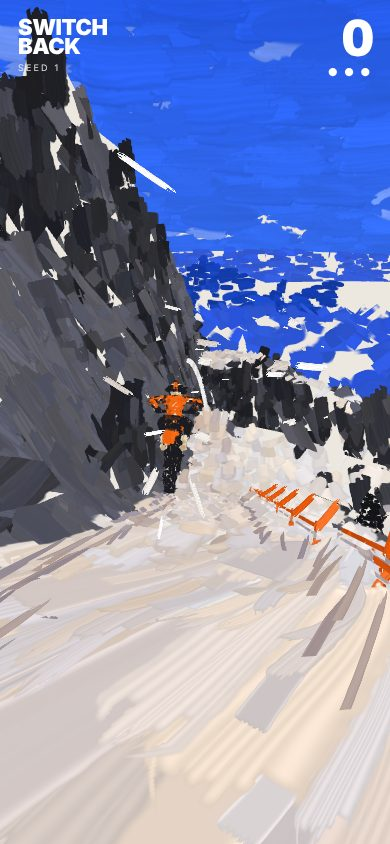
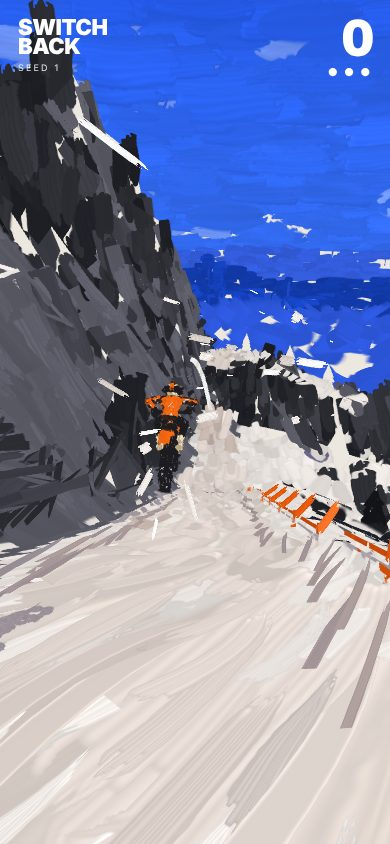
lab/switchback painted: blocks then edges, after the cut-paper reference
Colour by region: each face's light band is worked out where its strokes
are laid and every stroke on it takes exactly that colour (±3% value), so
regions read as flat blocks. Three layers: masses (big washes and flats),
a few touches, then edges: wherever two faces of different colour meet (a
material change, or a real fold of >12° across bands), each side painted up
to the edge in hard-edged knife/flat strokes, laid last. The far ranges and
valley get the same, with bigger, denser masses and no gaps.

Floating fixed: the rider's shadow follows the road ahead and behind (it
was a level plane at the rider's feet, standing clear of a slope; the
facets benefit too); the near smear never runs past its own length; debris
dabs smaller. Near strokes no longer under-cover (screen caps raised);
strokes anchored just behind the eye kept; the facing cull only for truly
turned-away faces on the course ground, roads two-sided (decks seen from
under).

Claude-Session: https://claude.ai/code/session_01XxjdrEubiC3ZZ3ppUeUc93

diff --git a/cells/lab/client/switchback/paint.ts b/cells/lab/client/switchback/paint.ts
@@ -127,6 +127,8 @@ export function stampAtlas(): { data: Uint8Array; w: number; h: number } {
 export const STROKE = 20;
 export const NEVER = -1e9;
 const ROAD = new Set<number>([M.TRACK, M.RUT]), GROUND = new Set<number>([M.SNOW, M.SHADOW]), ROCKY = new Set<number>([M.ROCK, M.UMBER, M.GOUGE]);
+/** the sun, as the facets have it (render.ts), for working out a face's light band where the strokes are laid */
+const SUN_ = (() => { const v = [-0.5, 0.72, 0.5], l = Math.hypot(v[0], v[1], v[2]); return v.map((x) => x / l); })();
 const BACKDROP = new Set<number>([M.MTN, M.MTNSNOW, M.FAR, M.FARSNOW, M.RIDGE, M.FOREST, M.VALLEY]);
 const hash2 = (a: number, b: number) => { let h = Math.imul(a | 0, 0x27d4eb2d) ^ Math.imul(b | 0, 0x165667b1); h = Math.imul(h ^ (h >>> 15), 0x85ebca6b); return (h ^ (h >>> 13)) >>> 0; };
 
@@ -152,9 +154,14 @@ export function lineOf(c: Course, s0: number, s1: number) {
  *   the ground is.
  */
 export function strokesOver(verts: Float32Array, seed: number, line: number[] | null, cap = 26000, moving = false, place = 0, flat = false): Float32Array {
-  const out: number[] = [];
+  // (laid in three layers, in this order: the masses that block each region in, the few touches inside it, and the edges
+  // that cut each region back where it meets another of a different colour)
+  const masses: number[] = [], touches: number[] = [], edges: number[] = [];
+  const faces: { mt: number; band: number; n: number[]; c: number[]; st: number; Le: number; back: boolean }[] = [];
+  const edgeOf = new Map<string, { fs: number[]; P: number[]; Q: number[] }>();
+  const key = (x: number, y: number, z: number) => `${Math.round(x * 50)},${Math.round(y * 50)},${Math.round(z * 50)}`;
   const n = verts.length / 12;
-  for (let t = 0; t < n && out.length / STROKE < cap; t++) {
+  for (let t = 0; t < n && (masses.length + touches.length) / STROKE < cap; t++) {
     // (each face's strokes seeded by the face: by its place in the mesh, or, for a mesh that's a window sliding along the
     // way (`place`, the size it's known to), by where it is, so the same face keeps the same strokes as the window moves)
     const R = place > 0 ? rng(hash2(seed, hash2(Math.round((verts[t * 12] + verts[t * 12 + 4] + verts[t * 12 + 8]) / (3 * place)), Math.round((verts[t * 12 + 2] + verts[t * 12 + 6] + verts[t * 12 + 10]) / (3 * place))) ^ Math.round((verts[t * 12 + 1] + verts[t * 12 + 5] + verts[t * 12 + 9]) / (3 * place))) + 7) : rng(hash2(seed, t) + 7);
@@ -174,7 +181,7 @@ export function strokesOver(verts: Float32Array, seed: number, line: number[] | 
       for (let k = 0; k < line.length; k += 6) { const dd = (line[k] - mx) ** 2 + (line[k + 2] - mz) ** 2; if (dd < best) { best = dd; px = line[k]; pz = line[k + 2]; lx = line[k + 3]; lz = line[k + 4]; st = line[k + 5]; } }
       d = Math.sqrt(best);
     }
-    const emit = (tx: number, ty: number, tz: number, Ls: number, Ws: number, cover: number, pass: number, stamps: number[], jit: number, bendA: number, kind: number) => {
+    const emit = (tx: number, ty: number, tz: number, Ls: number, Ws: number, cover: number, pass: number, stamps: number[], jit: number, bendA: number, kind: number, out = masses) => {
       const want = (area * cover) / (Ls * Ws);
       let k = Math.floor(want) + (R() < want - Math.floor(want) ? 1 : 0);
       while (k-- > 0) {
@@ -193,7 +200,7 @@ export function strokesOver(verts: Float32Array, seed: number, line: number[] | 
       // (a flat thing lying on the ground (your track, a shadow) is laid as the ground is: flat on it, one side; a
       // standing thing, both sides, turning to the eye)
       if (flat && ny < 0) { nx = -nx; ny = -ny; nz = -nz; }
-      emit(e[0] / el, e[1] / el, e[2] / el, Ls, Ls * (flat ? 0.35 : 0.5), flat ? 2.2 : 3.2, 1, flat ? [0, 1, 11] : [0, 1, 2, 4, 8, 15], 0.35, flat ? 0.2 : 0.4, flat ? 0 : 3);
+      emit(e[0] / el, e[1] / el, e[2] / el, Ls, Ls * (flat ? 0.35 : 0.5), flat ? 2.6 : 3.2, 1, flat ? [0, 1, 11] : [0, 1, 2, 4, 8, 15], 0.35, flat ? 0.2 : 0.4, flat ? 0 : 3);
       continue;
     }
     // (the face's normal: up, or (a steep face) toward the road it's seen from)
@@ -204,9 +211,23 @@ export function strokesOver(verts: Float32Array, seed: number, line: number[] | 
     const fx = nx * ny, fy = ny * ny - 1, fz = nz * ny, fl = Math.hypot(fx, fy, fz);
     const across = () => { const a = ny * fz - nz * fy, b = nz * fx - nx * fz, c = nx * fy - ny * fx, l = Math.hypot(a, b, c) || 1; return [a / l, b / l, c / l]; };
     const along = () => { const dp = lx * nx + lz * nz; const x = lx - nx * dp, y = -ny * dp, z = lz - nz * dp; const l = Math.hypot(x, y, z) || 1; return [x / l, y / l, z / l]; };
+    // (the face's colour, as the facets pick it: its light band; every stroke on it takes the same, so a region reads as one
+    // block)
+    const tone = mt - m, band = (() => { const l = nx * SUN_[0] + ny * SUN_[1] + nz * SUN_[2] + (tone / 0.9 - 0.5) * 0.42; return l > 0.62 ? 0 : l > 0.3 ? 1 : l > -0.05 ? 2 : 3; })();
+    const remember = (Le: number) => {
+      const f = faces.length;
+      faces.push({ mt, band, n: [nx, ny, nz], c: [(ax + bx + cx) / 3, (ay + by + cy) / 3, (az + bz + cz) / 3], st, Le, back: backdrop });
+      for (const [p, q] of [[0, 1], [1, 2], [2, 0]]) {
+        const P = [verts[o + p * 4], verts[o + p * 4 + 1], verts[o + p * 4 + 2]], Q = [verts[o + q * 4], verts[o + q * 4 + 1], verts[o + q * 4 + 2]];
+        const kp = key(P[0], P[1], P[2]), kq = key(Q[0], Q[1], Q[2]), k = kp < kq ? kp + '|' + kq : kq + '|' + kp;
+        const e = edgeOf.get(k); if (e) e.fs.push(f); else edgeOf.set(k, { fs: [f], P, Q });
+      }
+    };
     if (backdrop) {
-      const [tx, ty, tz] = fl > 0.12 ? across() : along(), Ls = Math.max(10, Math.min(260, Math.sqrt(area) * 0.6));
-      emit(tx, ty, tz, Ls, Ls * 0.4, 3.2, 0, [7, 11, 0, 10], 0.4, 0.3, 0);
+      // (the far off: big level masses, close enough to leave no gaps, and its regions' edges cut)
+      const [tx, ty, tz] = fl > 0.12 ? across() : along(), Ls = Math.max(12, Math.min(320, Math.sqrt(area) * 0.85));
+      emit(tx, ty, tz, Ls, Ls * 0.45, 5, 0, [7, 11, 0], 0.3, 0.2, 0);
+      remember(Math.max(10, Math.min(120, Math.sqrt(area) * 0.4)));
       continue;
     }
     let tx: number, ty: number, tz: number;
@@ -215,11 +236,39 @@ export function strokesOver(verts: Float32Array, seed: number, line: number[] | 
     else if (ROCKY.has(m)) [tx, ty, tz] = [fx / fl, fy / fl, fz / fl];
     else [tx, ty, tz] = across();
     const road = ROAD.has(m), Ls = Math.min(22, 2.3 * (1 + d / 22)) * (road ? 1.7 : 1);
-    // (the masses: big and broad, laid first; then the detail over them)
-    emit(tx, ty, tz, Ls * 2.2, Ls * 2.2 * (road ? 0.3 : 0.42), ROCKY.has(m) ? 3.4 : 2.6, 0, road ? [0, 1, 7, 13] : ROCKY.has(m) ? [9, 13, 0, 5] : [11, 7, 0, 10], 0.3, 0.25, 0);
-    emit(tx, ty, tz, Ls, Ls * (road ? 0.16 : 0.34), 1.3, 1, road ? [0, 1, 13] : ROCKY.has(m) ? [5, 6, 9, 13, 14] : [2, 3, 4, 1, 10, 12, 8, 15], road ? 0.25 : 0.5, 0.9, 0);
+    // (the masses: big and broad, blocking the region in; then a few touches inside it, no more)
+    emit(tx, ty, tz, Ls * 2.6, Ls * 2.6 * (road ? 0.3 : 0.42), ROCKY.has(m) ? 4 : 3.6, 0, road ? [0, 1, 7, 11] : ROCKY.has(m) ? [9, 13, 0, 11] : [11, 7, 0], 0.3, 0.25, 0);
+    emit(tx, ty, tz, Ls, Ls * (road ? 0.16 : 0.34), 0.35, 1, road ? [0, 1, 13] : ROCKY.has(m) ? [5, 6, 9, 13, 14] : [2, 3, 4, 1, 10, 12, 8, 15], road ? 0.25 : 0.5, 0.9, 0, touches);
+    remember(Math.min(6, 1.6 * (1 + d / 30)));
   }
-  return new Float32Array(out);
+  // the edges: where two faces of different colour meet (material or light band), each side painted up to the edge in
+  // its own colour, in hard-edged strokes along it, laid last, so the boundary is cut, not blurred
+  const R2 = rng(hash2(seed, 99991));
+  for (const { fs: fi, P, Q } of edgeOf.values()) {
+    if (fi.length !== 2) continue;
+    const fs = [faces[fi[0]], faces[fi[1]]];
+    // (a change of material always earns an edge; within one material only a real fold does (the faces meeting at more
+    // than about 12°, their light bands differing), not a face's own tone tipping it into the next band)
+    const same = Math.floor(fs[0].mt) === Math.floor(fs[1].mt), fold = fs[0].n[0] * fs[1].n[0] + fs[0].n[1] * fs[1].n[1] + fs[0].n[2] * fs[1].n[2] < 0.978;
+    if (same && (fs[0].band === fs[1].band || !fold)) continue;
+    const tx = Q[0] - P[0], ty = Q[1] - P[1], tz = Q[2] - P[2], L = Math.hypot(tx, ty, tz);
+    if (L < 0.05) continue;
+    const T = [tx / L, ty / L, tz / L];
+    for (const F of fs) {
+      // (into the face, square to the edge, on its plane)
+      let wx = F.n[1] * T[2] - F.n[2] * T[1], wy = F.n[2] * T[0] - F.n[0] * T[2], wz = F.n[0] * T[1] - F.n[1] * T[0];
+      const wl = Math.hypot(wx, wy, wz) || 1; wx /= wl; wy /= wl; wz /= wl;
+      if (wx * (F.c[0] - P[0]) + wy * (F.c[1] - P[1]) + wz * (F.c[2] - P[2]) < 0) { wx = -wx; wy = -wy; wz = -wz; }
+      const Le = Math.min(F.Le, L), We = Le * (F.back ? 0.22 : 0.2), k = Math.max(1, Math.ceil(L / (Le * 0.7)));
+      for (let i = 0; i < k; i++) {
+        const t = (i + 0.5) / k * L, off = We * 0.42;
+        edges.push(P[0] + T[0] * t + wx * off, P[1] + T[1] * t + wy * off, P[2] + T[2] * t + wz * off, F.mt, T[0], T[1], T[2], Le * (0.9 + R2() * 0.3), F.n[0], F.n[1], F.n[2], We * (0.85 + R2() * 0.3), R2(), R2() < 0.6 ? 13 : 0, (R2() - 0.5) * 0.1, 0, F.st, 1, moving ? 1 : 0, 0);
+      }
+    }
+  }
+  const all = new Float32Array(masses.length + touches.length + edges.length);
+  all.set(masses); all.set(touches, masses.length); all.set(edges, masses.length + touches.length);
+  return all;
 }
 
 /** The sky's strokes: level marks round the eye from the horizon up past the top, close enough to cover it, darkening as
@@ -255,12 +304,15 @@ void main(){
   float keep = sky || both ? 1. : uDens*mix(1., .5, smoothstep(80., 900., dist));
   // (a stroke on a face turned away from the eye isn't laid (a thing, thin, is painted on both sides): it shrinks away as its
   // face turns from the eye, rather than going at once; so nothing lifted toward the eye shows through from behind an edge)
-  if (!sky && !both) g *= smoothstep(-.02, .12, dot(n, V));
+  // (except the road: a kicker's deck is seen from under it too)
+  int mt0 = int(a0.w);
+  if (!sky && !both && a4.x > -1e8 && mt0 != 1 && mt0 != 10) g *= smoothstep(-.06, 0., dot(n, V));
   if (!sky && dot(n, V) < 0.) n = -n;
   // (thinned with distance: a stroke past its turn shrinks away over a little more distance, rather than going at once)
   g *= clamp((keep - h(seed, 12.9898))/.12 + 1., 0., 1.);
   vec4 c = uVP*vec4(w, 1.);
-  if (g <= 0. || c.w < .3) { gl_Position = vec4(2., 2., 2., 1.); return; }
+  // (a stroke laid just behind the eye may still run out in front of it: kept, the part behind clipped)
+  if (g <= 0. || c.w < -max(a1.w, a2.w)) { gl_Position = vec4(2., 2., 2., 1.); return; }
   // The stroke is laid in the world, on its face, along its own way: nothing about how it lies comes from the screen, so
   // it can't swing as the eye moves. Across it, its width turns from lying on the face toward facing the eye as it gets
   // further off, so it never thins to a sliver (after Brush Rush).
@@ -277,9 +329,12 @@ void main(){
   float face = sky ? 1. : both ? .35 + .5*smoothstep(4., 40., dist) : .15 + .75*smoothstep(5., 70., dist);
   vec3 Wd = normalize(mix(Bn, Be, face));
   // its size: thinned out, the ones kept are bigger; never thinner on the picture than a few pixels, never more than a part of it
-  float grow = inversesqrt(max(keep, .3)), k = uK*uRes.y*.5/c.w;
+  float grow = inversesqrt(max(keep, .3)), k = uK*uRes.y*.5/max(c.w, .5);
   float len = a1.w*grow, wid = a2.w*grow;
-  wid = clamp(wid, uMinW/k, uRes.y*.19/k); len = clamp(len, wid*1.6, uRes.y*.5/k) + min(smearL, uRes.y*.3/k);
+  wid = clamp(wid, uMinW/k, uRes.y*.4/k); len = clamp(len, wid*1.6, uRes.y*.9/k);
+  // (the smear never runs a stroke more than its own length on past where it's laid: further, and a slope that bends away
+  // would leave it standing clear of the ground)
+  len += min(smearL, min(len*1.2, uRes.y*.3/k));
   float u = aQ.x*g, c2 = 2.*u - 1., s = (u - .5)*len, bend = a3.z*len*(1. - c2*c2)*.25;
   vec3 p = w + T*s + Wd*(aQ.y*wid*.5 + bend);
   vec4 cq = uVP*vec4(p, 1.);
@@ -297,16 +352,16 @@ void main(){
   }
   // (its colour: the face's band, as the facets pick it, a little jittered stroke by stroke; and the band next to it)
   int mt = int(a0.w); float tone = fract(a0.w);
-  float l = dot(n, uSun) + (tone/.9 - .5)*.42 + (h(seed, 78.233) - .5)*.12;
+  float l = dot(n, uSun) + (tone/.9 - .5)*.42;
   int b = l > .62 ? 0 : l > .3 ? 1 : l > -.05 ? 2 : 3;
   int b2 = clamp(b + (h(seed, 3.1) > .5 ? 1 : -1), 0, 3);
-  vec3 A = uPal[mt*4 + b], B = mix(A, uPal[mt*4 + b2], .45);
+  vec3 A = uPal[mt*4 + b], B = mix(A, uPal[mt*4 + b2], .22);
   float fd = length((w - uEye).xz), f = floor(clamp((fd - 80.)/520., 0., 1.)*4.)/4.;
   vec3 fogs[4] = vec3[4](vec3(.62, .66, .9), vec3(.33, .45, .88), vec3(.14, .33, .84), vec3(.09, .26, .78));
   float fk = min(1., f*1.1)*uFog;
   // (no two strokes alike: a little lighter or darker, a little warmer or cooler)
-  vec3 tint = mix(vec3(.95, .98, 1.06), vec3(1.05, 1., .93), h(seed, 4.7))*(1. + (h(seed, 9.13) - .5)*.12);
-  A *= mix(vec3(1.), tint, .7); B *= mix(vec3(1.), tint, .7);
+  float wob = 1. + (h(seed, 9.13) - .5)*.06;
+  A *= wob; B *= wob;
   vA = mix(A, fogs[b], fk); vB = mix(B, fogs[b2], fk);
 }`;
 const FS = `#version 300 es
@@ -437,7 +492,8 @@ export class Brush2D {
   dab(ctx: CanvasRenderingContext2D, p: number[], s: number, a: number, col: string) {
     const st = 3, cell = [(st % STAMP.COLS) * STAMP.W, Math.floor(st / STAMP.COLS) * STAMP.H];
     ctx.save(); ctx.translate(p[0], p[1]); ctx.rotate(a);
-    ctx.drawImage(this.sheet(col), cell[0], cell[1], STAMP.W, STAMP.H, -s * 1.3, -s * 0.6, s * 2.6, s * 1.2);
+    const k = Math.min(s, 14);
+    ctx.drawImage(this.sheet(col), cell[0], cell[1], STAMP.W, STAMP.H, -k * 0.75, -k * 0.38, k * 1.5, k * 0.76);
     ctx.restore();
   }
 }

diff --git a/cells/lab/client/switchback/render.ts b/cells/lab/client/switchback/render.ts
@@ -185,9 +185,14 @@ export class Renderer {
     const rutsV = this.rutStyle === 'cut' ? buildGouges(this.course, r.s) : buildRuts(this.course, r.s), trackV = this.trail.mesh();
     const flagsV = buildFlags(this.course, r.s - 40, r.s + 320, t), fallsV = buildFalls(this.course, r.s - 30, r.s + 420, t);
     const g = this.course.point(r.s, r.u).y + 0.06, sh = new Float32Array(body.length);
+    // (each point of it on the ground where it falls: the road ahead of the rider and behind, not a level plane at the
+    // rider's feet, which a slope going away would leave standing in the air)
+    const hx = Math.sin(r.heading), hz = Math.cos(r.heading), gy = new Map<number, number>();
+    const groundAt = (d: number) => { const k = Math.round(d * 4); let y = gy.get(k); if (y === undefined) { y = this.course.point(r.s + k / 4, r.u).y ?? g - 0.06; gy.set(k, y); } return y + 0.06; };
     for (let i = 0; i < body.length; i += 4) {
       const h = body[i + 1] - g, k = Math.max(0, h) / SUN[1];
-      sh[i] = body[i] - SUN[0] * k; sh[i + 1] = g; sh[i + 2] = body[i + 2] - SUN[2] * k; sh[i + 3] = 9.45;
+      sh[i] = body[i] - SUN[0] * k; sh[i + 2] = body[i + 2] - SUN[2] * k; sh[i + 3] = 9.45;
+      sh[i + 1] = groundAt((sh[i] - r.x) * hx + (sh[i + 2] - r.z) * hz);
     }
     const shadowOn = !r.air || body[1] - g < 6;
     if (pt) {

diff --git a/cells/lab/static/switchback.md b/cells/lab/static/switchback.md
@@ -115,7 +115,8 @@ An experiment in drawing the mountain as paint, after looking closely at a brush
 - **The facets' own colours.** Each stroke takes its face's band as the facets pick it (a little jittered), its bristles mixing toward the band next to it.
 - **No strokes from behind.** A stroke on a face turned away from the eye isn't laid (it shrinks away as its face turns), as in Brush Rush, so a stroke lifted toward the eye never shows through an edge from the far side; the ground's outward side is up (it's a height field, cliffs included). Things thin enough to be seen from either side (the fence's tape, a flag) are painted on both.
 - **Nothing pops.** A stroke whose turn to be thinned out with distance comes shrinks away rather than going at once. What's built afresh each frame keeps its strokes: the rider by its faces, the flags and the falls by where they are; the gouges aren't painted (they're cut to the eye, so their faces change as you ride), the road's own strokes running along it instead.
-- **The speed in the marks, near the eye.** Within about 14 m of the eye (gone by 30 m), at pace every stroke turns, on its own face, toward the way the eye is going and draws out by as far as the eye goes in a moment (the eye's smoothed motion in the world: one way for every stroke, so they hold steady), so the ground and the rock just round you fall into line and stream past; further off the subject alone lays each stroke (`stretch=0` none, `stretch=2` twice). Your track and the rider's shadow are laid flat, as the ground is.
+- **The speed in the marks, near the eye.** Within about 14 m of the eye (gone by 30 m), at pace every stroke turns, on its own face, toward the way the eye is going and draws out by as far as the eye goes in a moment (the eye's smoothed motion in the world: one way for every stroke, so they hold steady), so the ground and the rock just round you fall into line and stream past; further off the subject alone lays each stroke (`stretch=0` none, `stretch=2` twice). Your track and the rider's shadow are laid flat, as the ground is; the shadow lies on the road ahead and behind where it falls, not on a level plane at the rider's feet (which a slope going away left standing in the air). The smear never runs a stroke more than its own length past where it's laid, so it can't stand clear of a crest.
+- **Blocks, then edges** (the cut-paper reference's own way). Each face's light band is worked out where its strokes are laid, and every stroke on it takes exactly that colour (a ±3% wobble in value, no more), so a region reads as one flat block. It's laid in three layers, in order: the **masses** (big washes and flats, covering the region), a few **touches** inside it (no more), and the **edges**: wherever two faces of different colour meet (a change of material, or a real fold, the faces meeting at more than about 12° in different light bands; not a face's own tone tipping it into the next band), each side is painted up to the edge in its own colour, in hard-edged knife and flat strokes along it, laid last, so the boundary is cut, not blurred. The far ranges and the valley get the same: big level masses close enough to leave no gaps, and their snow's shapes cut.
 - **Strokes the course calls for.** Laid deliberately from the course, not scattered over faces: the road's two edges in long strokes following it (darker than the road, broken now and then), the drop's lip as a lit edge of snow, the wall's foot as a line of shade. So the way reads in the paint as far as you can see it, until, near you, the eye takes over.
 - **The speed layer too.** Its shards, the smears off the posts, the air off the rider and the debris are laid with the same stamps, tinted: a wedge becomes a long stroke tapering the same way, a chip a dab.
 
